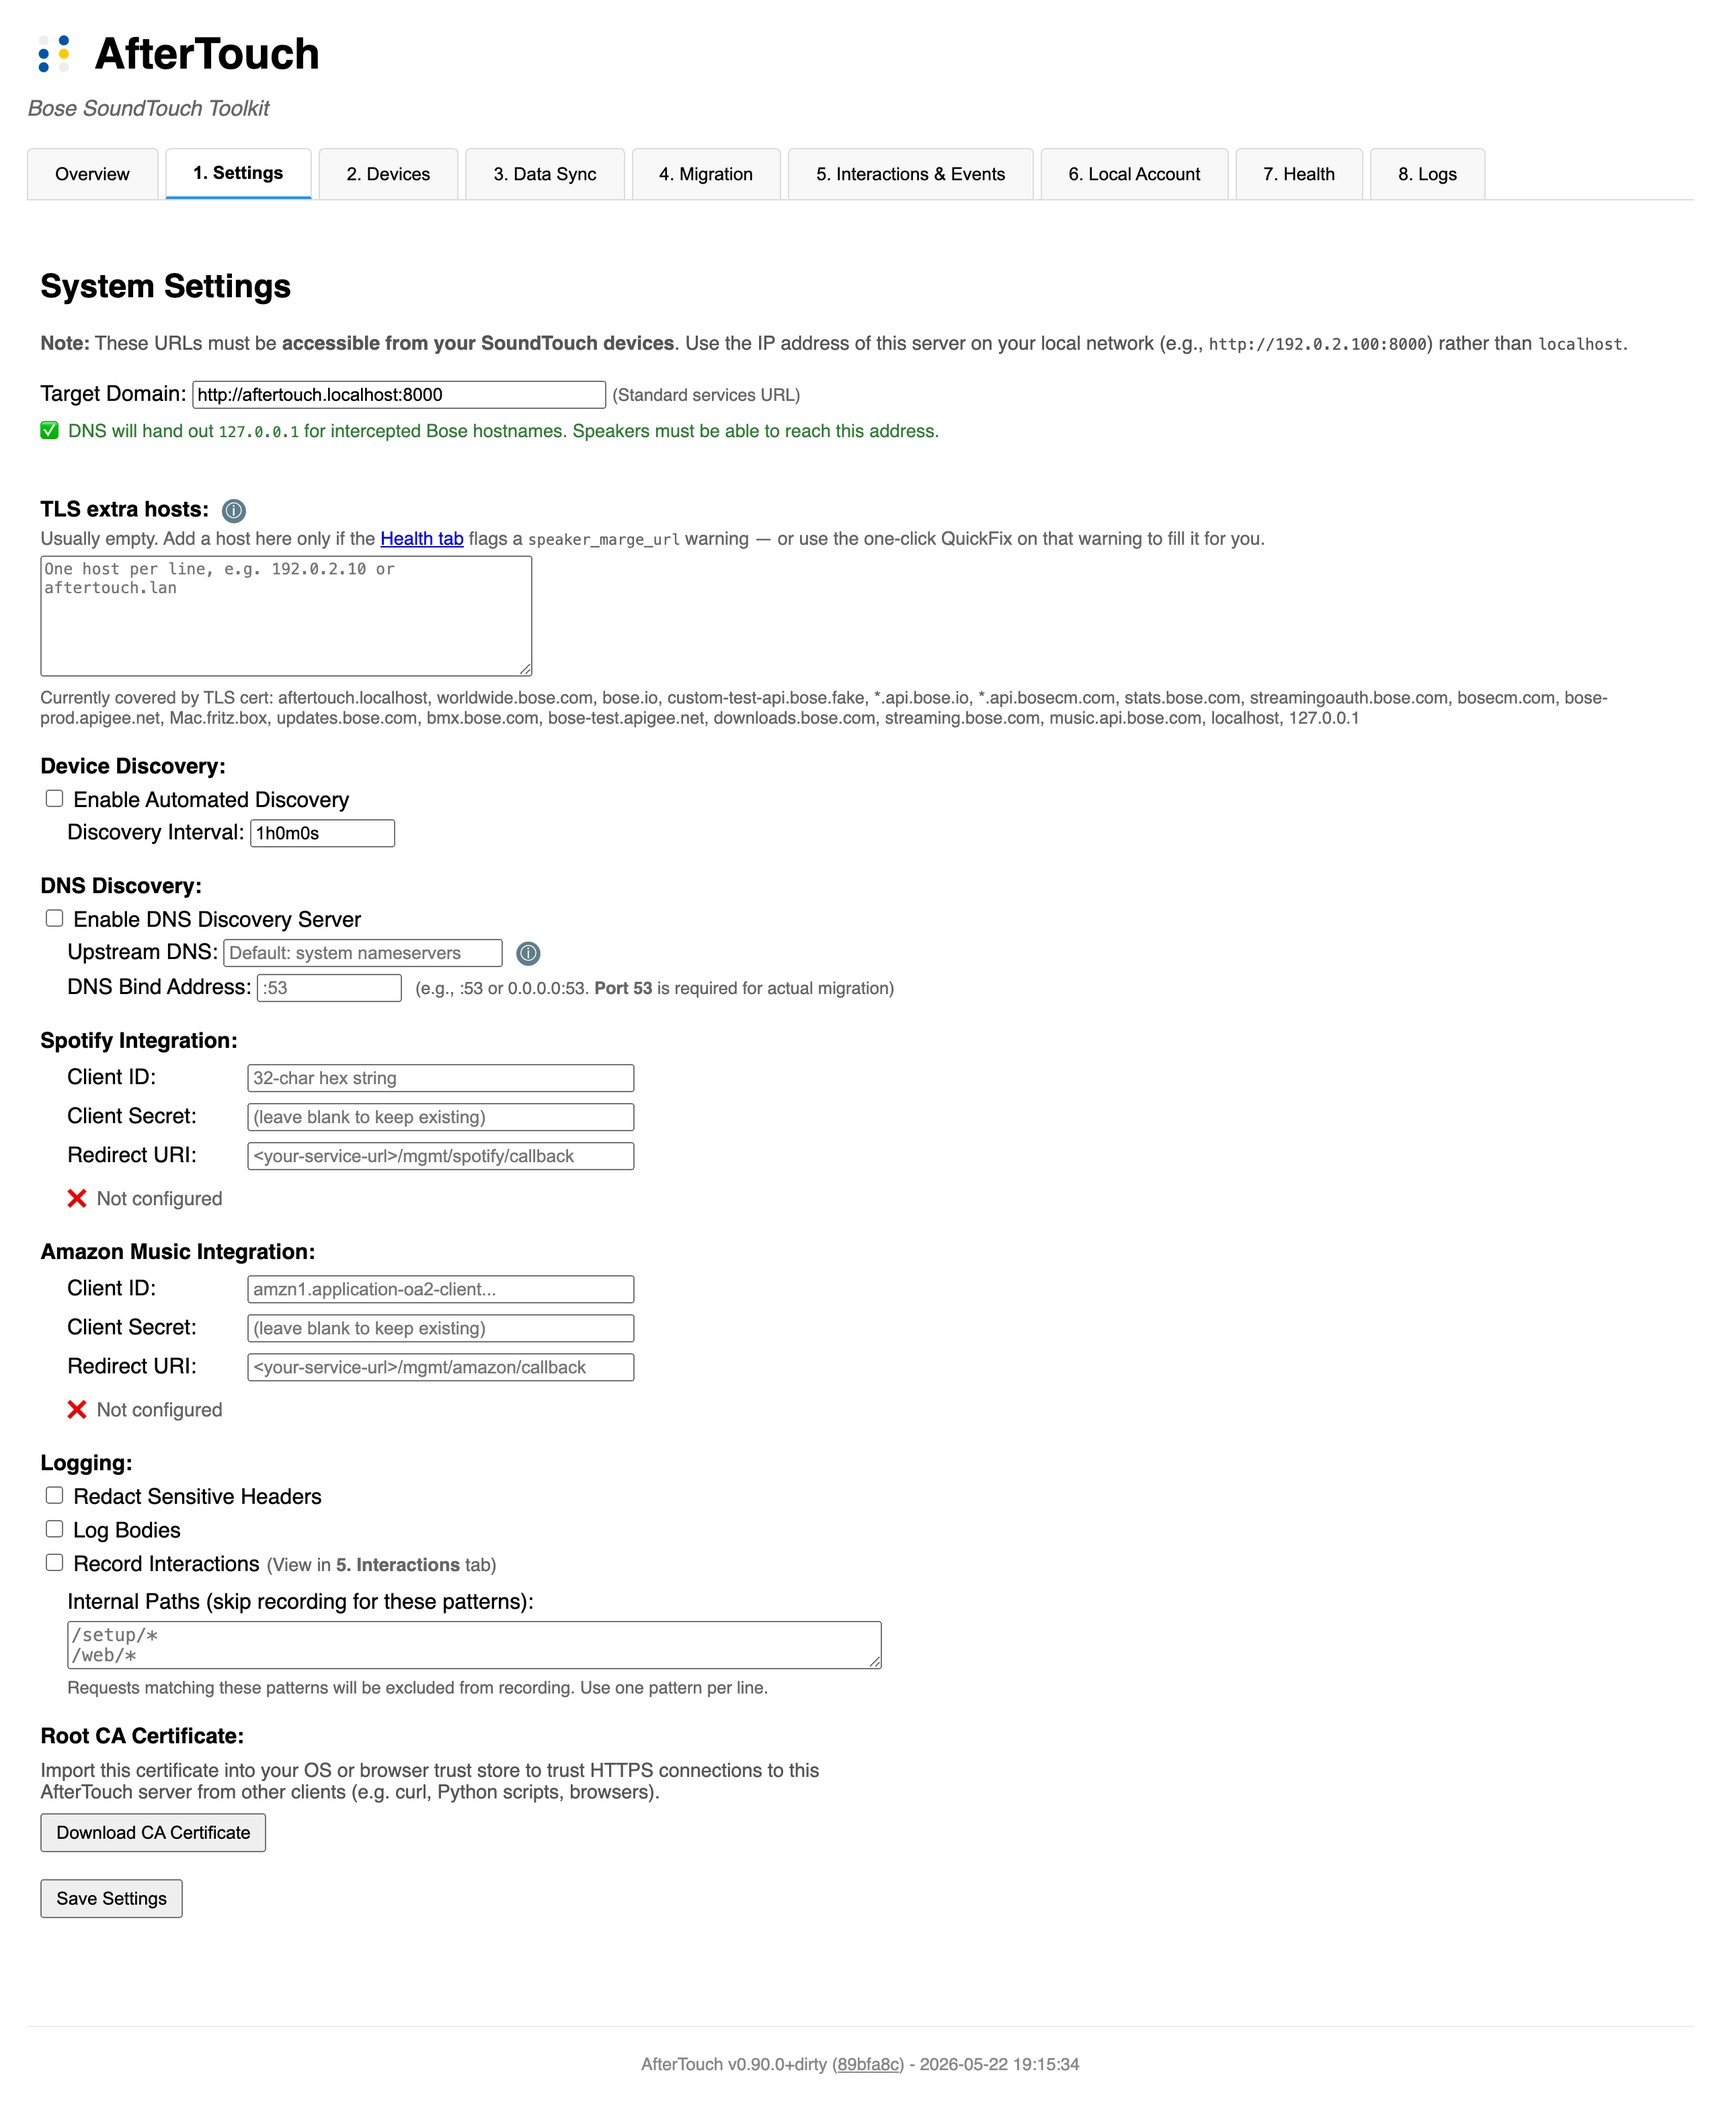
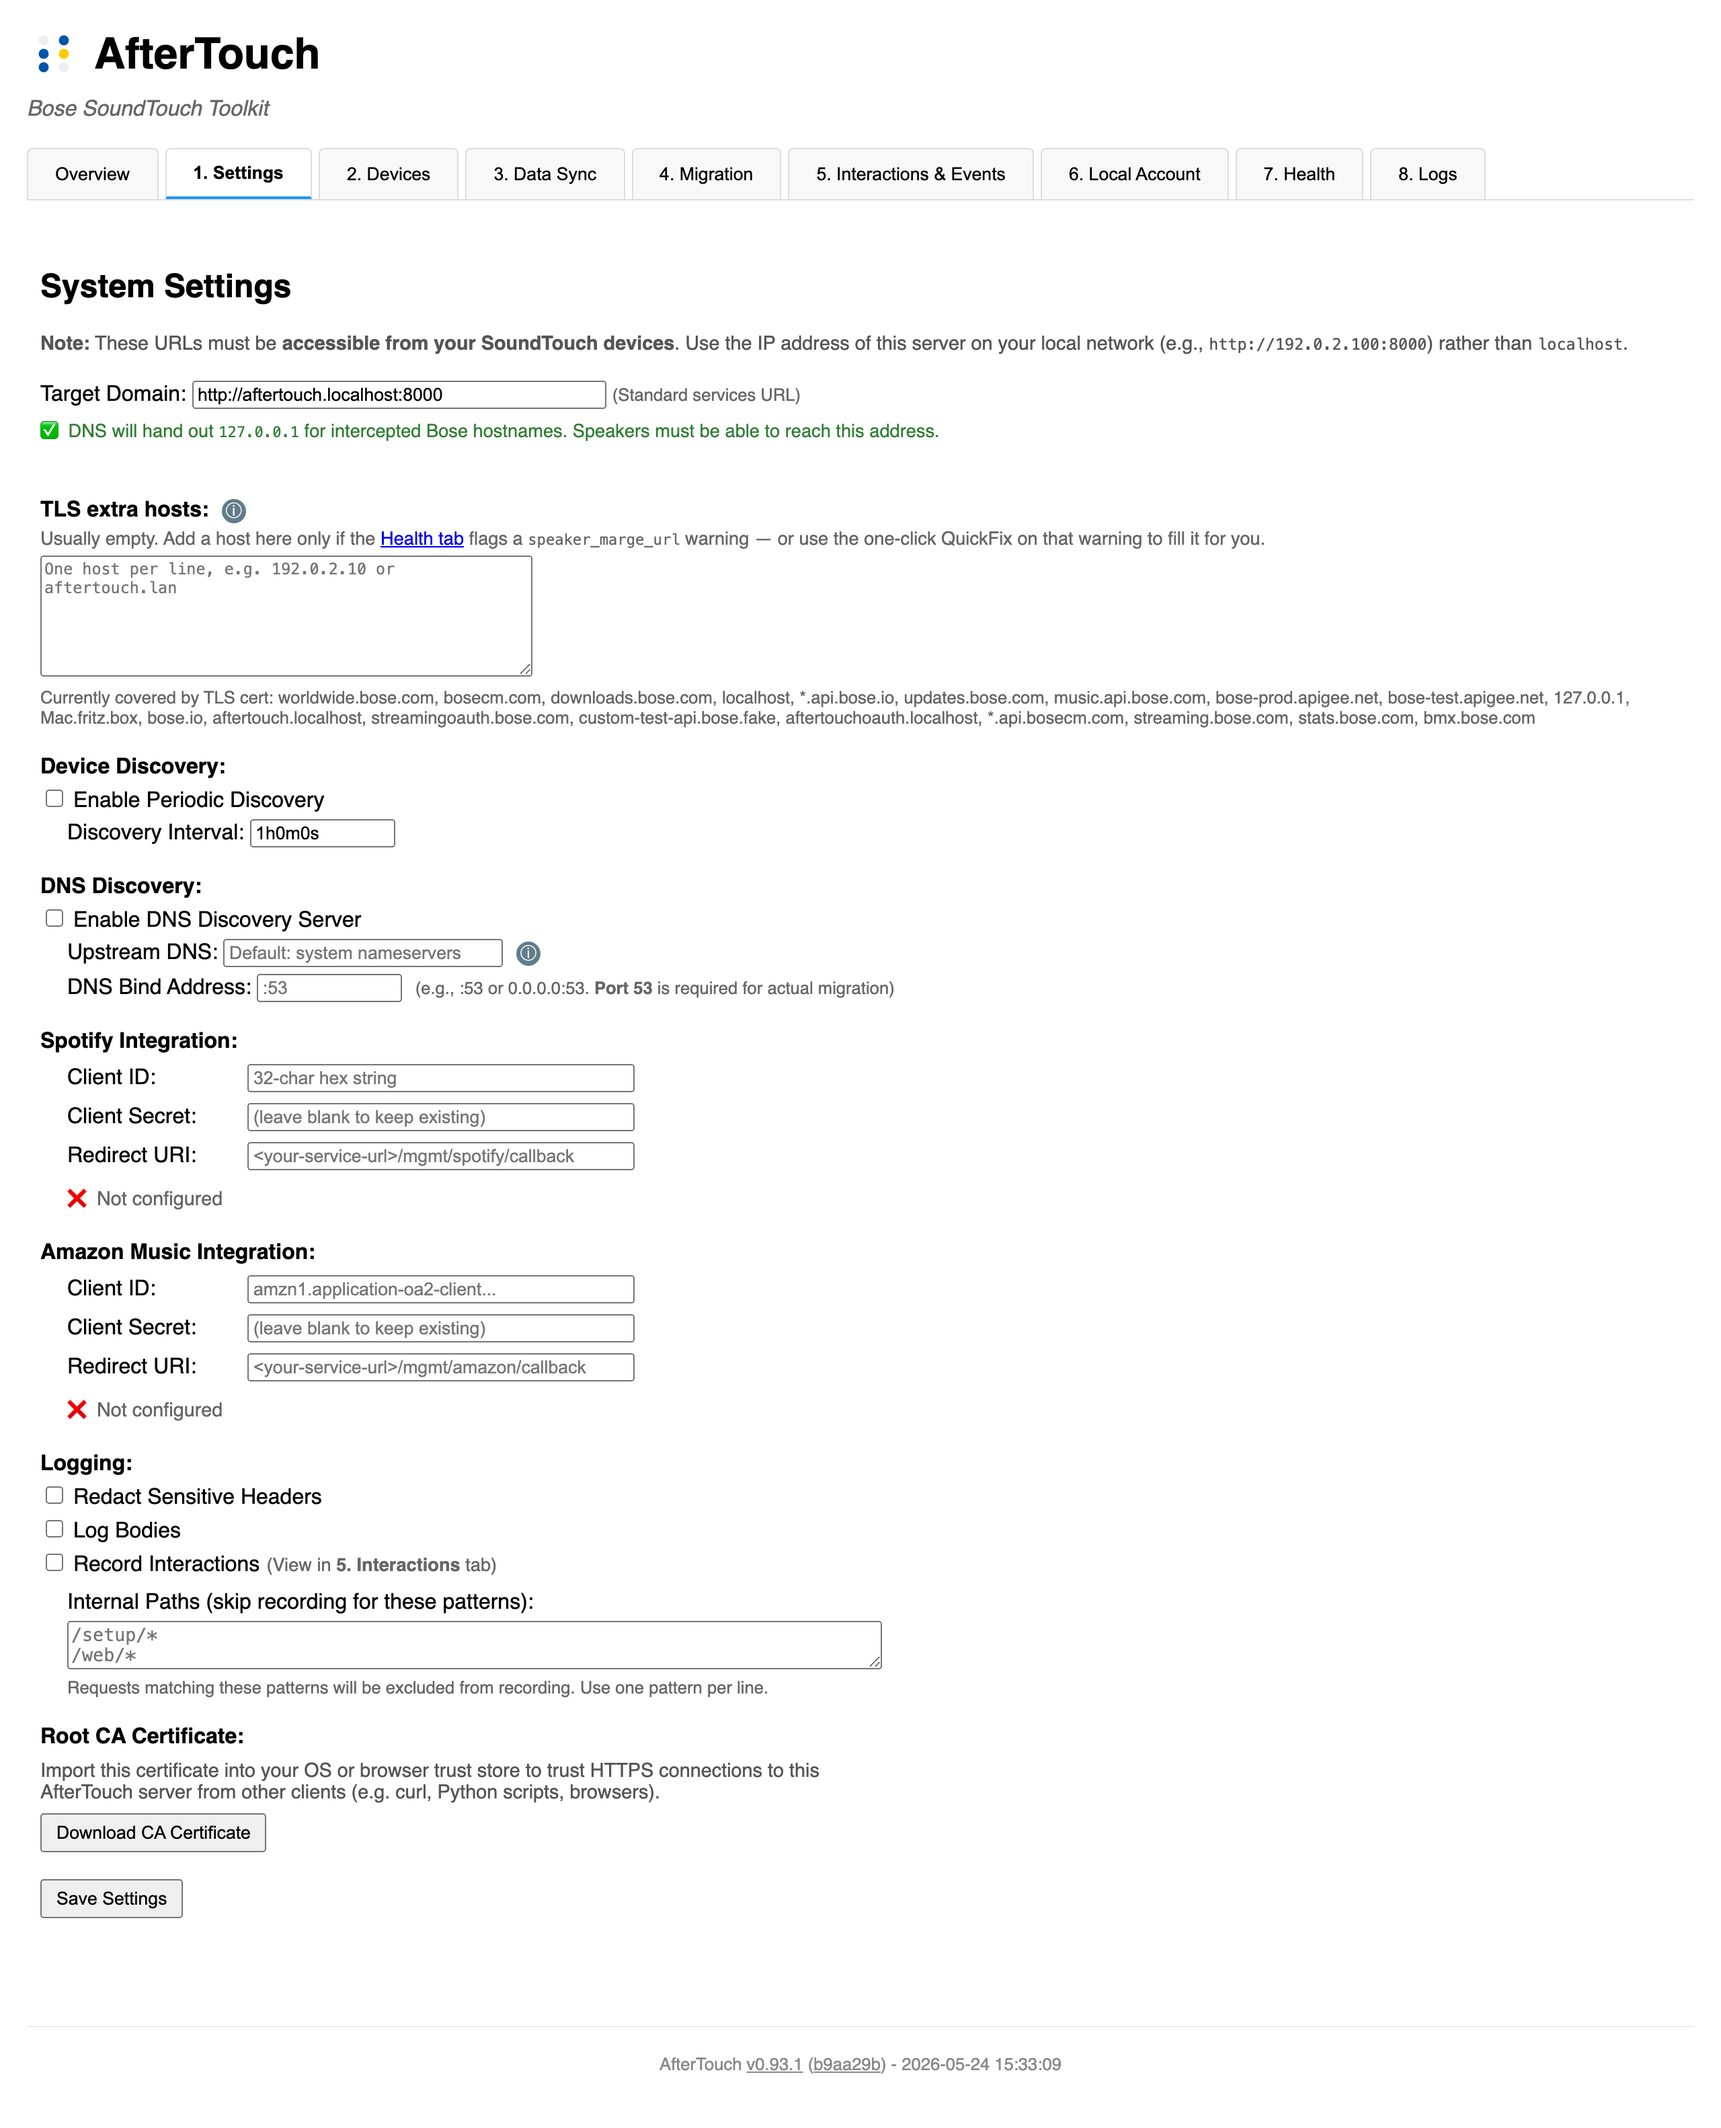
chore: bump to v0.93.1

diff --git a/docs/content/docs/guides/ON-DEVICE-INSTALL-WALKTHROUGH.md b/docs/content/docs/guides/ON-DEVICE-INSTALL-WALKTHROUGH.md
@@ -103,7 +103,7 @@ Verify the installed version:
 wget -qO- http://localhost:8000/health
 ```
 
-The JSON response should include `"version":"v0.92.0"` (or whichever
+The JSON response should include `"version":"v0.93.1"` (or whichever
 version you installed).
 
 ---
@@ -191,13 +191,13 @@ next reboot — which is fine for a one-time setup run):
 cd /tmp
 
 curl -L --fail -o soundtouch-cli \
-  https://github.com/gesellix/Bose-SoundTouch/releases/download/v0.92.0/soundtouch-cli-v0.92.0-linux-armv7
+  https://github.com/gesellix/Bose-SoundTouch/releases/download/v0.93.1/soundtouch-cli-v0.93.1-linux-armv7
 chmod +x soundtouch-cli
 
 /tmp/soundtouch-cli --version
 ```
 
-Replace `v0.92.0` with the version you installed.
+Replace `v0.93.1` with the version you installed.
 
 ---
 

diff --git a/docs/content/docs/guides/RASPBERRY-PI.md b/docs/content/docs/guides/RASPBERRY-PI.md
@@ -39,7 +39,7 @@ You can customize the installation using environment variables:
 
 ```bash
 sudo \
-  VERSION=v0.92.0 \
+  VERSION=v0.93.1 \
   HOSTNAME_FQDN=soundtouch.local \
   HTTP_PORT=80 \
   HTTPS_PORT=443 \
@@ -51,7 +51,7 @@ sudo \
 To update the service to a specific version, run the installer with the version as an argument:
 
 ```bash
-sudo bash install.sh v0.92.0
+sudo bash install.sh v0.93.1
 ```
 
 The installer will automatically fetch the latest version of itself for that release and then update the service binary and restart it.

diff --git a/docs/content/docs/guides/EXTERNAL-HOST-WALKTHROUGH.md b/docs/content/docs/guides/EXTERNAL-HOST-WALKTHROUGH.md
@@ -43,7 +43,7 @@ starts on boot.
 To install a specific version:
 
 ```bash
-sudo bash install.sh v0.92.0
+sudo bash install.sh v0.93.1
 ```
 
 Check that the service is running:
@@ -219,7 +219,7 @@ curl -s http://192.0.2.1:8090/presets
 
 ```bash
 sudo bash install.sh              # updates to latest release
-sudo bash install.sh v0.93.0     # updates to a specific version
+sudo bash install.sh v0.93.1     # updates to a specific version
 ```
 
 The installer stops the service, downloads the new binary, and restarts

diff --git a/scripts/raspberry-pi/README.md b/scripts/raspberry-pi/README.md
@@ -28,7 +28,7 @@ You can override defaults:
 
 ```bash
 sudo \
-  VERSION=v0.91.0 \
+  VERSION=v0.93.1 \
   HOSTNAME_FQDN=soundtouch.local \
   HTTP_PORT=80 \
   HTTPS_PORT=443 \
